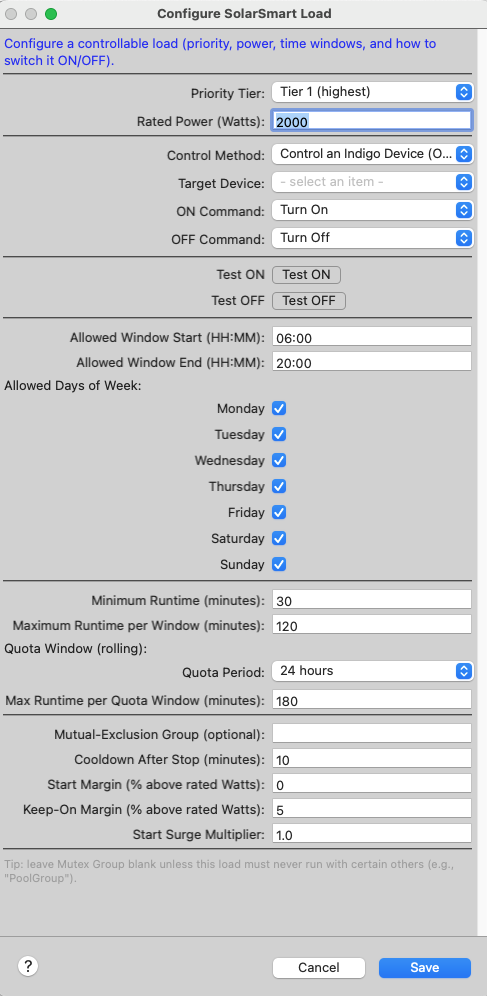
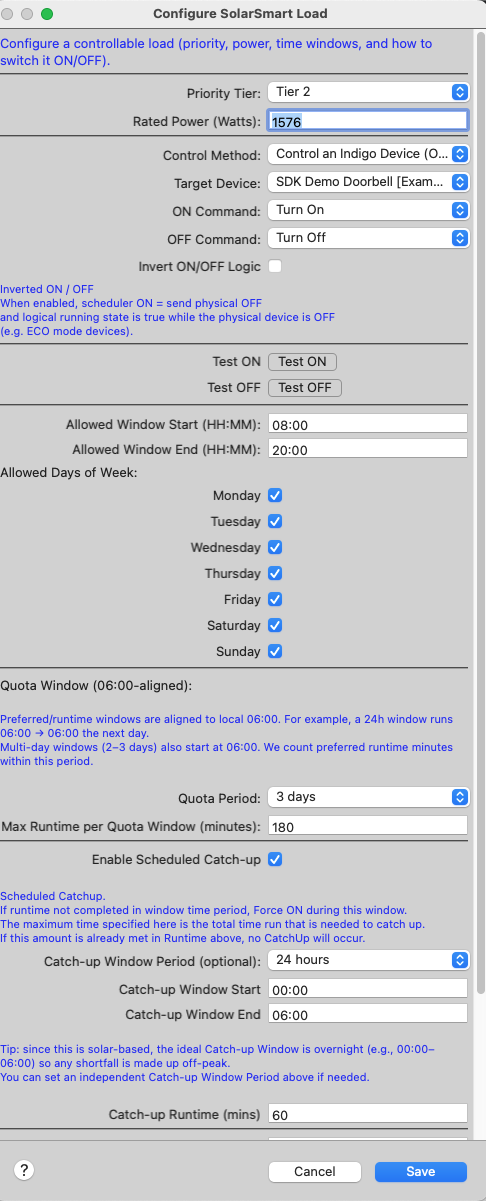
1.0.70 Move catchup to its own window period checked at the end and then runs
Fine tuning multiple day windows
Catchup also is over the runtime window period - so no catchup unless in the final phase / last day of the window periodd

1.0.62
FIX
Fix for window reset 6am
Fix for multiple days

1.0.55
Redo/Fix catchup logic

1.0.50
Add time based manual over ride action group for running when you just have to

1.0.40
Don't reset timers unless have to

1.0.37
Use Cooldown - previously ignored
Updated Test Device for more info
Fix logging of Test device not correct - override with valuedict

1.0.31
Reset timers at 6am prior to next Solar cycle

1.0.28
fix for catchuo not running

1.0.25
Bug fix for Ensure off not called self.pluging

1.0.19

Update table with inversion, eco mode type optio

diff --git a/SolarSmart.indigoPlugin/Contents/Server Plugin/plugin.py b/SolarSmart.indigoPlugin/Contents/Server Plugin/plugin.py
@@ -301,20 +301,6 @@ class SolarSmartAsyncManager:
 
         # 1) Add this helper inside class SolarSmartAsyncManager (right after _aligned_last_next_slot)
 
-    def _is_final_catchup_phase(self, props: dict, now: datetime | None = None) -> bool:
-        """
-        Return True if we are within the FINAL 24 hours of the current aligned quota slot.
-        - For 12h/24h windows: always True (entire slot is the final period).
-        - For 2d/3d windows: True only when now >= next_slot_start - 24h.
-        """
-        now = now or datetime.now()
-        key = self._aligned_window_key(props)
-        if key in ("12h", "24h"):
-            return True
-        # Multi-day windows: allow catch-up only in the last 24h before the slot boundary
-        last_dt, next_dt, _ = self._aligned_last_next_slot(props, now=now)
-        return now >= (next_dt - dt.timedelta(days=1))
-
     # Insert these helpers inside class SolarSmartAsyncManager, near the other slot helpers.
 
     def _catchup_window_key(self, props: dict) -> str:
@@ -927,7 +913,12 @@ class SolarSmartAsyncManager:
                                     f"[CATCHUP][STOP] {d.name}: window closed remaining={remaining_fallback}m"
                                 )
                             continue
+
                         if not final_phase:
+                            self._ensure_off(d,"Catch-up not allowed until final day of catch-up window")
+                            st["catchup_active"] = False
+                            d.updateStateOnServer("catchupActive", False)
+                            d.updateStateOnServer("catchupLastStop", now.strftime("%Y-%m-%d %H:%M:%S"))
                             total_skipped += 1
                             if dbg5:
                                 self.plugin.logger.debug(
@@ -969,6 +960,12 @@ class SolarSmartAsyncManager:
                             self.plugin.logger.debug(
                                 f"[CATCHUP][SKIP] {d.name}: outside window remaining={remaining_fallback}m"
                             )
+                        continue
+
+                    if not final_phase:
+                        total_skipped += 1
+                        if dbg5:
+                            self.plugin.logger.debug(f"[CATCHUP][SKIP] {d.name}: not in final slot-day; will wait to end-of-window")
                         continue
 
                     # NEW: respect cooldown for catch-up starts
